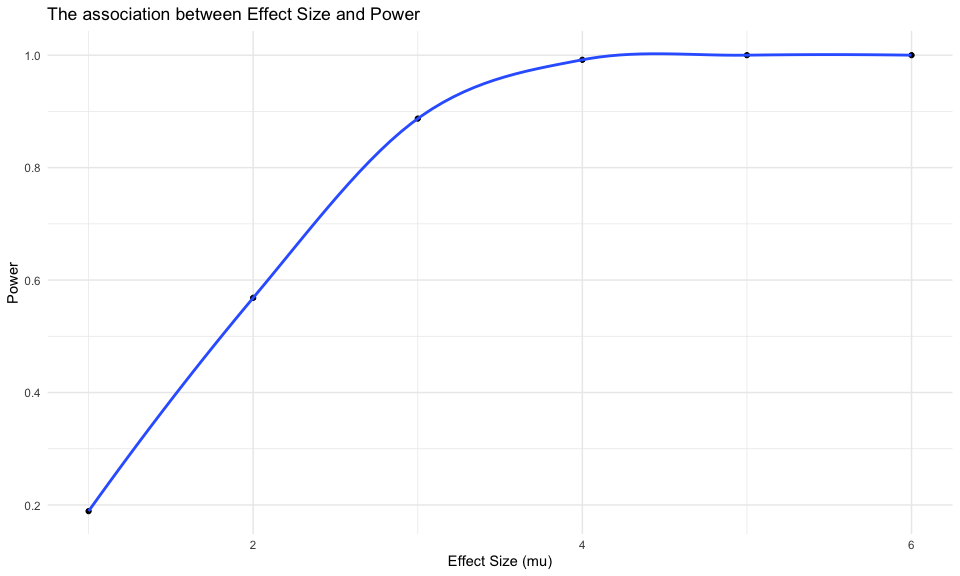
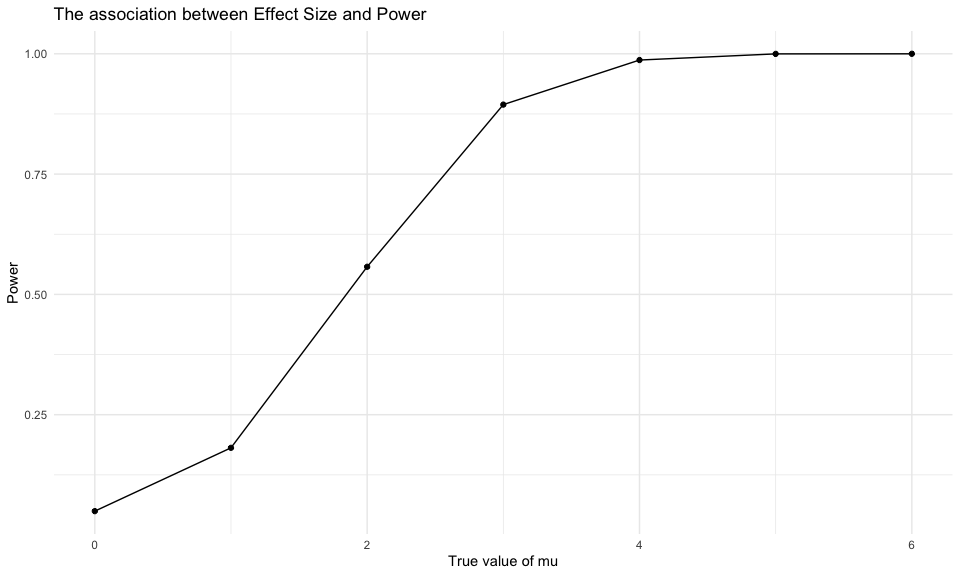
Updates on the Problem 3

diff --git a/p8105_hw5_jz3336.md b/p8105_hw5_jz3336.md
@@ -177,11 +177,11 @@ sim_result0 =
   bind_rows()
 ```
 
-**5000 times simulation for mu = c(1,2,3,4,5,6):**
+**5000 times simulation for mu = c(0,1,2,3,4,5,6):**
 
 ``` r
 sim_results = 
-  tibble(mu = c(1, 2, 3, 4, 5, 6)) %>% 
+  tibble(mu = c(0, 1, 2, 3, 4, 5, 6)) %>% 
   mutate(
     output_lists = map(.x = mu, ~rerun(5000, sim_ttest(.x))),
     estimate_dfs = map(output_lists, bind_rows)) %>% 
@@ -219,9 +219,9 @@ power =
 power %>% 
   ggplot(aes(x = mu, y = power )) +
   geom_point() +
-  geom_smooth() + 
+  geom_line() + 
   labs(
-    x = "Effect Size (mu)",
+    x = "True value of mu",
     y = "Power",
     title = "The association between Effect Size and Power"
   )
@@ -229,10 +229,13 @@ power %>%
 
 <img src="p8105_hw5_jz3336_files/figure-gfm/unnamed-chunk-12-1.png" width="90%" />
 
-**Comment on Plot 1:** Power is positively related to effect size. Under
-the null hypothesis of mu = 0, as the effect size (mu) increased from 1
-to 6, the power also increased and reached the highest value 1 when
-effect size is 4.
+**Comment on Plot 1:** Power is positively related to effect size. As
+the true value of mu increased from 0 to 6, the `effect size = (true
+mean - mu null)` will increase since variance maintained the same during
+the whole process and mu null also maintained to be 0. Thus, the power
+will increased and reached the highest value 1 when mu is 4. When the
+true mean is 0, the power is very small and approximately equals to
+0.05.
 
 **Plot2:** Make a plot showing the average estimate of μ^ on the y axis
 and the true value of μμ on the x axis. Make a second plot (or overlay
@@ -274,7 +277,7 @@ combined_plot =
   labs(
     x = "True value of mu",
     y = "Average estimated value of mu",
-    title = "Comparison between True mu and the Average Estimated mu"
+    title = "Comparison between True mu and the Average Estimated mu in All and Rejected-Only Samples"
   )
 
 combined_plot
@@ -282,13 +285,20 @@ combined_plot
 
 <img src="p8105_hw5_jz3336_files/figure-gfm/unnamed-chunk-13-1.png" width="90%" />
 
-**Comment on Plot2:** The estimated average of mu across tests for which
-the null was rejected did not equal to the true value of mu until the
-true value of mu reached 4. Before mu = 4, the estimated average of mu
-across tests for which the null was rejected was greater than the true
-value. Starting from mu = 4, the estimated average of rejected mu become
-similar to the estimated average of not-rejected mu, which was about the
-same as the true mu. This is because the mu in the rejected samples
-needs to be different from the true vale of mu to be rejected, while the
-estimated mu across all rejected and fail-to-rejected test will have an
-average value that is close to the true mean.
+**Comment on Plot2:** The estimated average of mu in all samples equal
+to the true value of mu. However, the estimated average of mu across
+tests for which the null was rejected does not always equal the true
+value of mu. When the true value of mu is zero, the average estimated mu
+in the sample for which the null was rejected was about the same as the
+true mean even with small power. This may be explained by the random
+sampling process that values was randomly picked on both side of zero,
+and a few extreme sample means can be average out in the end. While when
+the true value of mean is 1 and 2, the power of rejecting the null was
+still small, there might be a larger tendency of having the rejected
+samples have a mean greater than the true value of mu. Thus, as at 1 and
+2, the average estimated sample mean in the rejected samples diverged
+from the true value of mu and the average estimated mu of all samples.
+As the true value of mu increasing, the power of rejecting the null also
+increased. Therefore, starting from the true value of mean equaled 3,
+the average estimated sample mean in the rejected samples merged back to
+the true value of mu and the average estimated mu of all samples.
